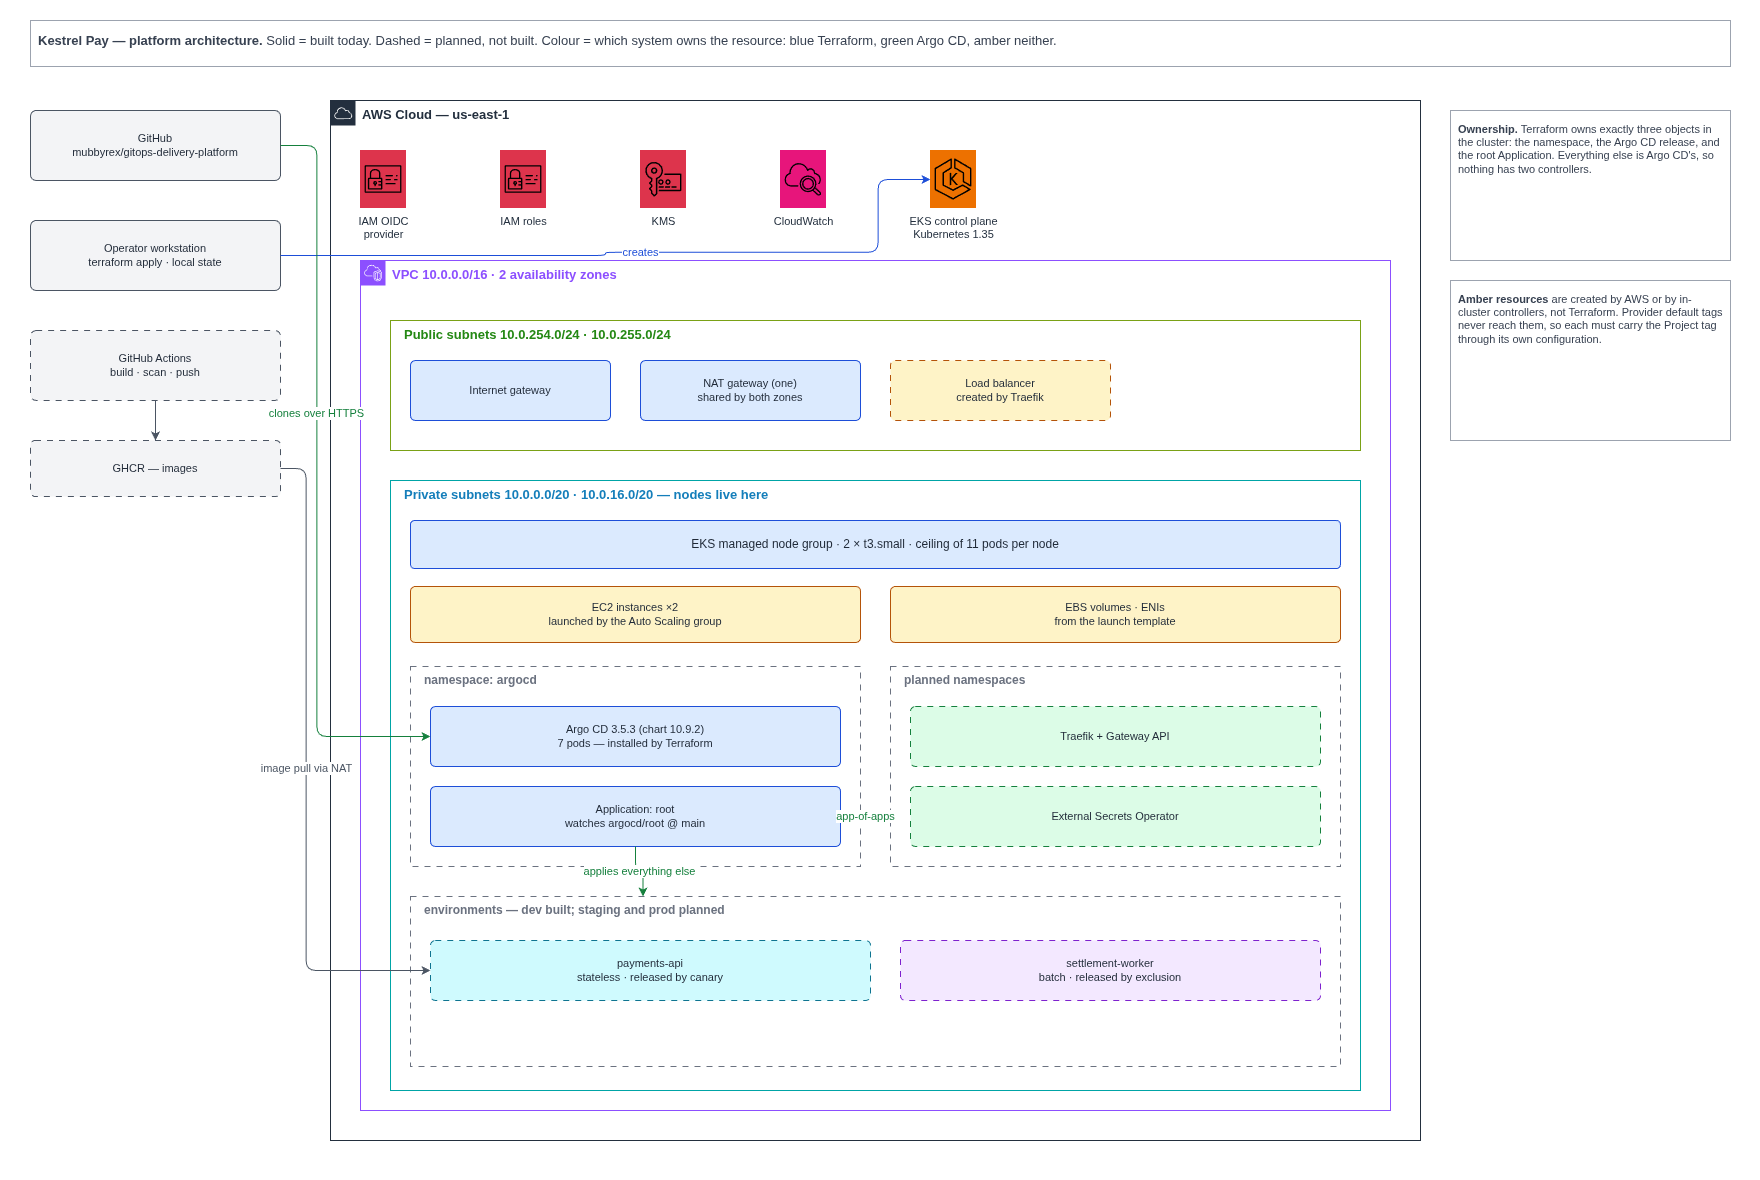
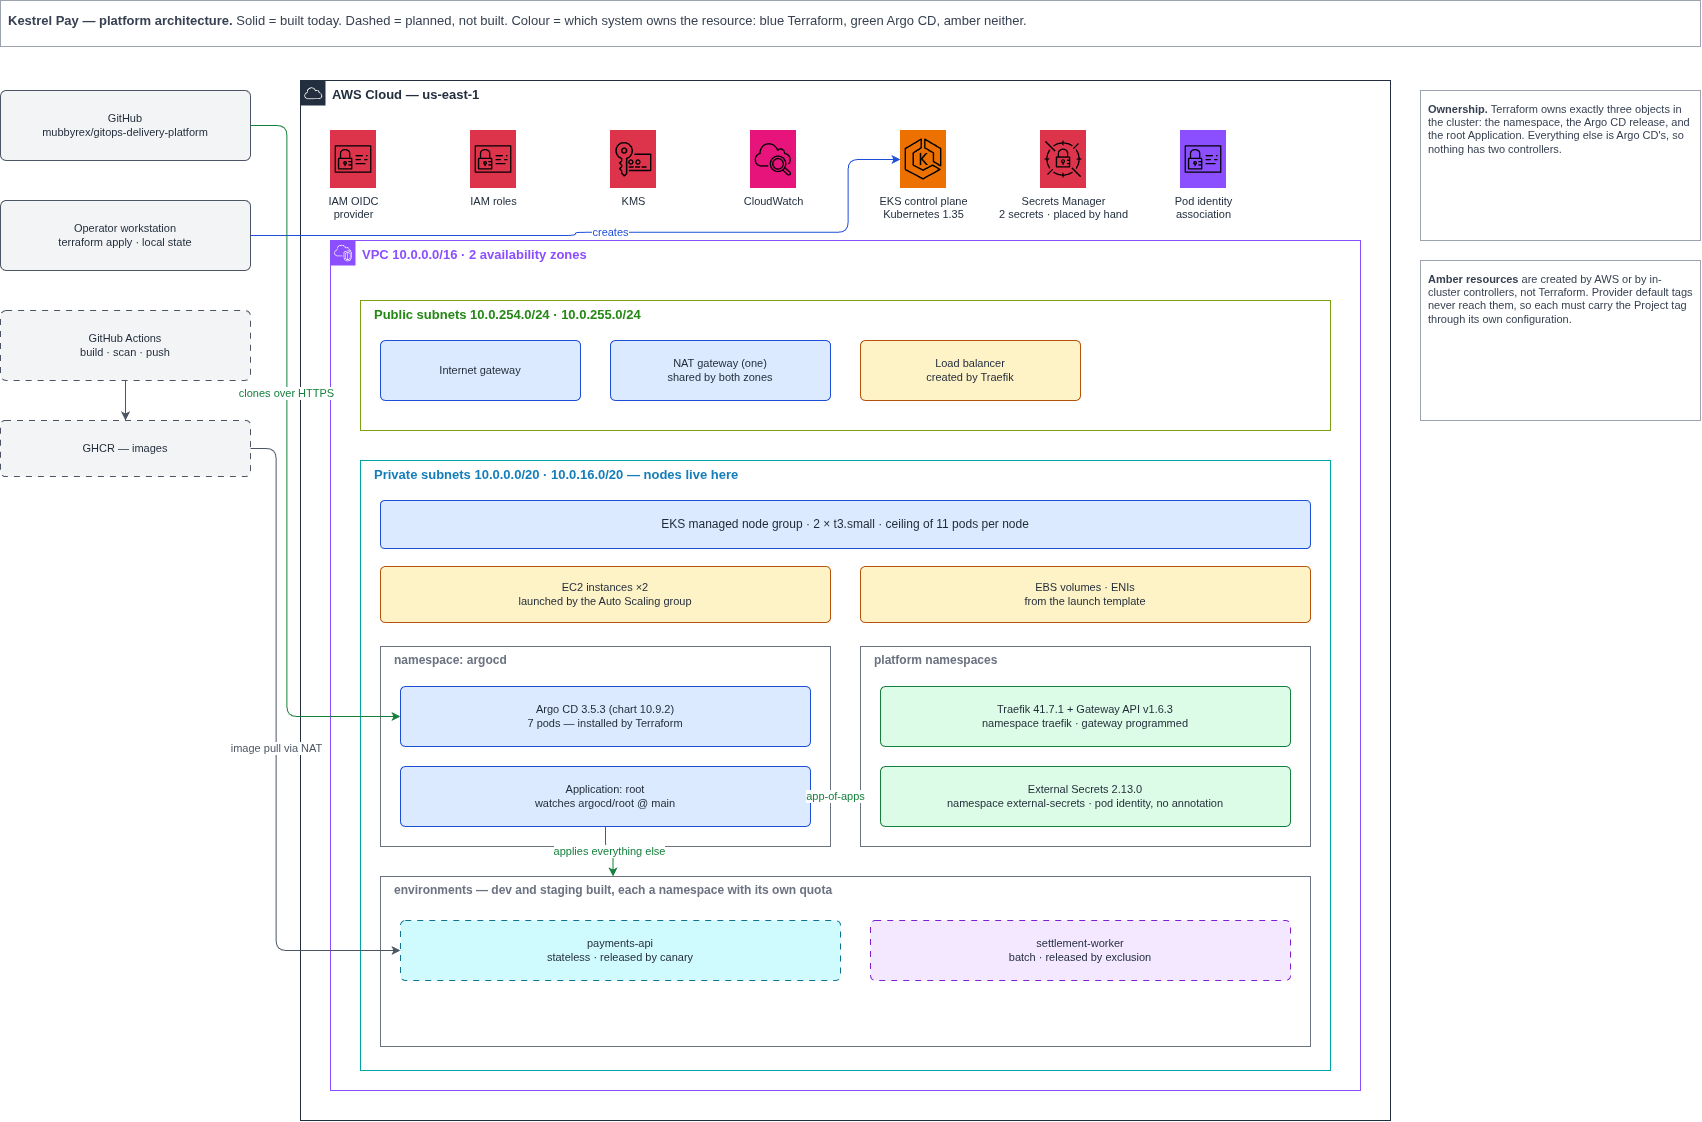
Show the components the cluster actually runs

diff --git a/docs/decisions.md b/docs/decisions.md
@@ -842,3 +842,174 @@ cluster enforces, because it is the same object. So the dry run stays — no
 longer as a workaround for a defect, but as the check that is authoritative
 about the thing being validated. The offline validator stays too, because it
 runs anywhere and catches the ordinary mistakes faster.
+
+---
+
+## Nodes are made larger because the pod ceiling was reached, not because of what comes next
+
+**Context.** The cluster networking plugin caps how many pods a node can run by
+how many IP addresses the instance type can hold, and the type in use allows
+eleven. Two nodes, twenty-two slots, nineteen in use. Three free, with two
+services about to be added across two environments.
+
+**Decision.** Two nodes of the next size up — thirty-four slots.
+
+**Why, and why now rather than earlier.** Three free slots cannot hold two
+services in two environments, and one of those services is the one whose entire
+purpose is to scale by replica count. Sizing was correct when it was chosen and
+has been outgrown; that is the normal life of a sizing decision rather than a
+mistake being corrected.
+
+**Rejected: a third node of the current size.** Cheaper, and it looks like the
+obvious answer. Thirty-three slots against thirty-four for two thirds of the
+extra cost. Rejected because each node arrives already owing three pods — it
+runs its own networking agent, service proxy and identity agent — so the
+thirty-three is really twenty-five usable against the larger pair's
+thirty-four. Per usable slot it is the worse buy, and the arithmetic is only
+visible if you remember that per-node components scale with nodes.
+
+**Rejected: raising the address limit instead of the instance size.** The
+networking plugin can assign each interface a block of sixteen addresses rather
+than single addresses, which lifts the ceiling to around a hundred at no extra
+instance cost. This is the right answer for a cluster that is not a reference
+platform. Rejected on two grounds: the blocks have to be allocatable as
+contiguous ranges, so it couples node startup to subnet layout and fails at
+launch rather than at configuration; and lifting the ceiling also appears to
+require the limit be set in node startup configuration and the node group
+replaced, which puts a node replacement on the path of every capacity change.
+Recorded as the production answer and deferred.
+
+**Rejected: fewer replicas.** Would fit, and would make the horizontally
+scaling service a single instance, which removes the only thing that makes it
+the horizontally scaling service.
+
+**Accepted cost.** Running cost rises from about $0.22 to about $0.26 an hour,
+roughly nineteen percent, for capacity that is mostly idle on the day it is
+bought. The nodes are also replaced to apply it, so this is the first change in
+this platform's life that disrupts a running cluster rather than adding to it.
+
+A second cost, stated because it would be easy to pretend otherwise: memory
+rises too, and memory is expected to become the binding constraint once
+something scrapes metrics. That is convenient and it is **not** the
+justification. If the pod ceiling were not already reached, this change would
+be premature and the honest thing would be to wait.
+
+Measured after the change rather than predicted: allocatable memory per node
+went from 1.40 Gi to 3.22 Gi, a factor of 2.3 rather than the 2 the instance
+sizes imply. The difference is the amount each node reserves for itself, which
+is close to fixed and therefore a smaller fraction of a larger node. Small
+nodes lose proportionally more to overhead than their size suggests, which is
+an argument against solving capacity with more small nodes that is separate
+from the pod-slot arithmetic above.
+
+---
+
+## The pipeline's own commit must not start the pipeline
+
+**Context.** The build pipeline commits an image reference back to the
+repository it watches. A pipeline that commits to its own trigger can start
+itself, and a loop that costs money per iteration is a poor thing to discover
+by accident.
+
+**Decision.** Nothing is built. The automatically provided token already has
+this property: a push made with it does not create a new run. This was checked
+against the platform's documentation rather than assumed, and the documented
+exceptions are only the two manual trigger events, neither of which is used
+here.
+
+**Why it is worth an entry at all, given nothing was built.** Because the
+alternatives people reach for are all worse, and reaching for one of them would
+look like diligence. A commit-message convention that later gets edited; a path
+filter that silently stops matching when a file moves; or a personal access
+token — which would *reintroduce* the recursion the default token prevents,
+while also putting a long-lived credential in a repository whose premise is not
+holding those. Knowing the default is safe is what makes it possible to decline
+all three.
+
+**Decision, second half: which file the reference is written to.** The
+development environment's values file, and only that one. Promotion to the next
+environment is a human editing a file.
+
+**Why.** Promotion is a decision. If the pipeline wrote to every environment,
+every environment would receive every build, and the thing this platform exists
+to demonstrate — that a release is a deliberate, visible, reversible act —
+would be gone. A human editing one line is the smallest honest form of that.
+
+**Accepted cost.** Promotion is manual, so it can be forgotten, and the two
+environments will drift apart whenever someone does not get round to it. That
+drift is the intended shape rather than a defect, but it does mean the
+environments are not automatically comparable, and anyone reading one and
+assuming the other matches will be wrong.
+
+---
+
+## An image is identified by content, not by a name that can be repointed
+
+**Context.** A chart conventionally takes a repository and a tag and joins them
+with a colon. A tag can be moved to different content later, which means the
+cluster's contents would not be determined by what is committed.
+
+**Decision.** The values file carries the repository and a content digest, the
+template joins them with `@`, and there is no tag field at all.
+
+**Why the tag field is removed rather than left empty.** A reference can be
+built from a tag or from a digest and they use different separators, so a digest
+cannot simply be put in a tag field. Leaving the field present invites someone
+to set it, and a reference with both is either ambiguous or silently ignores
+one. Removing it makes the wrong thing impossible rather than merely
+discouraged.
+
+**Rejected: a tag per build, immutable by convention.** Registries can be
+configured to refuse overwriting a tag, which gets most of the benefit and
+stays readable. Rejected because it is a property of the registry's
+configuration rather than of the reference itself — the same committed string
+means something different depending on a setting held somewhere else, and that
+is precisely the kind of invisible dependency this platform spends its length
+removing.
+
+**Accepted cost.** A digest is unreadable. Nobody looking at an environment
+values file can tell which version is deployed, and a diff between two releases
+shows two meaningless strings. The pipeline writes a human-readable comment
+beside it, which helps and is not load-bearing — being a comment, it will
+eventually be wrong, and a comment that disagrees with the value beside it is
+worse than no comment.
+
+---
+
+## The image is published so that pulling it needs no credential
+
+**Context.** The cluster has to pull the images it runs. If the published
+package requires authentication, the cluster needs a pull credential, which is
+a secret.
+
+**Decision.** The package is published readable without authentication, and the
+cluster is given no pull credential.
+
+**Why, and the reason is a loop rather than convenience.** The mechanism for
+getting secrets into this cluster is an operator that runs as a container, so it
+has to be pulled before it can supply anything. A cluster that cannot pull
+without a secret cannot start the thing that provides the secret. It would work
+today, because that operator comes from a registry that needs no credential —
+but it is a dependency loop waiting for somebody to move an image, and the
+failure would present as a cluster that cannot start rather than as a missing
+credential.
+
+The source repository is public, so there is nothing disclosed by the package
+being public that is not already disclosed.
+
+**Rejected: a private package with a pull credential supplied by the secrets
+mechanism.** Closer to what a real company would do, and it would exercise the
+secrets mechanism a third time. Rejected for the loop above, and because the
+exercise would be circular: using the secrets mechanism to fetch the credential
+needed to start the secrets mechanism.
+
+**Accepted cost.** Anybody can pull these images and read what is in them.
+These are deliberately trivial stubs that compute nothing, so there is nothing
+inside to protect — but that is a property of this phase rather than a general
+one, and the first image here with anything real in it would make this the
+wrong choice. Worth re-deciding rather than inheriting.
+
+Package visibility on this registry is also a property of the package and not
+inherited from the repository, and new packages default to private. So this is
+a setting that has to be applied deliberately and then confirmed by pulling
+without credentials, not assumed from the repository being public.

diff --git a/docs/architecture.md b/docs/architecture.md
@@ -30,11 +30,10 @@ Inside the cluster, in the order the controller brings them up:
 | secret store and requests | which AWS secrets this platform expects to exist |
 | `dev`, `staging` | one namespace each, with ceilings on what they may consume |
 
-The drawing above shows the network and the ownership split. It has not been
-re-exported since the components in that table were added, so read the table
-for the current inventory and the drawing for the shape of the network.
-
-Solid outlines in the diagrams are built. Dashed outlines are planned.
+Solid outlines in the diagrams are built. Dashed outlines are planned. The
+colour says which system owns a resource: one for the provisioning tooling, one
+for the delivery controller, and one for the things owned by neither, which is
+the distinction the next section is about.
 
 ## The boundary that matters most
 
